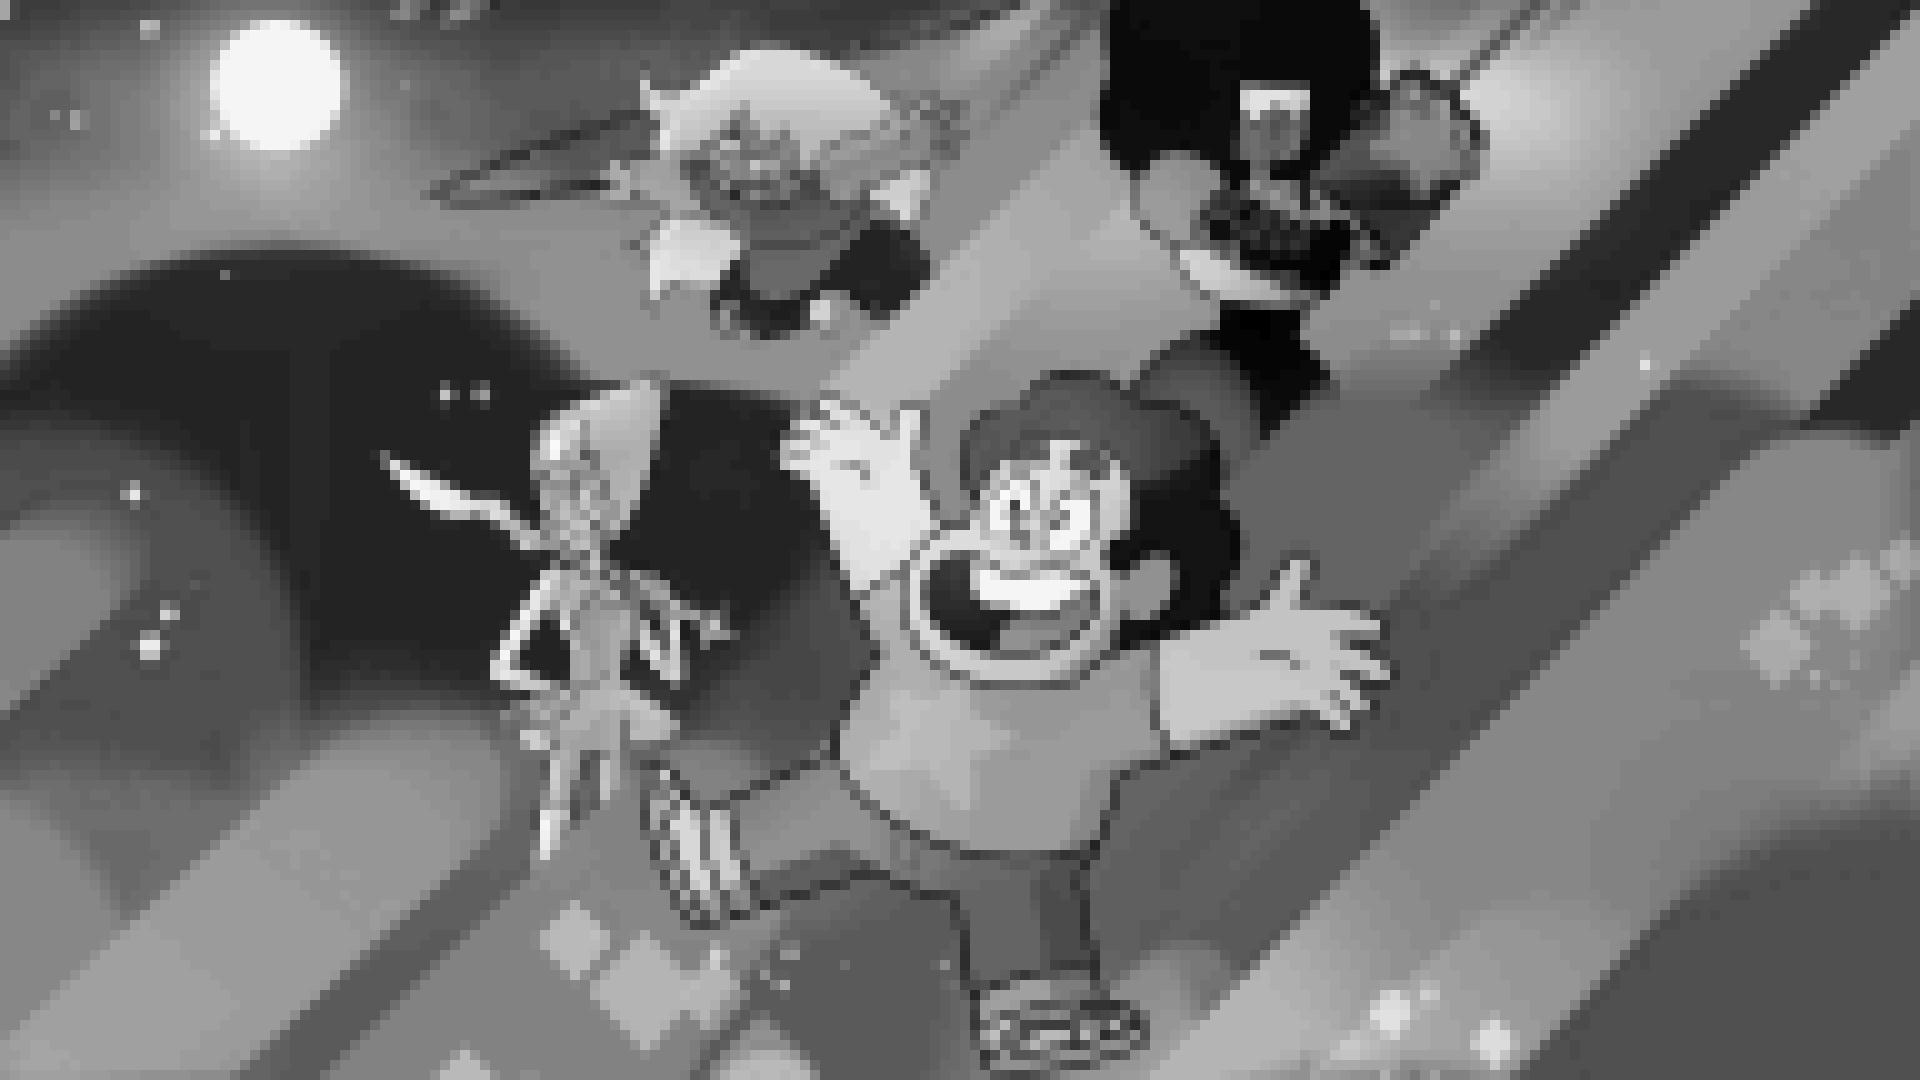
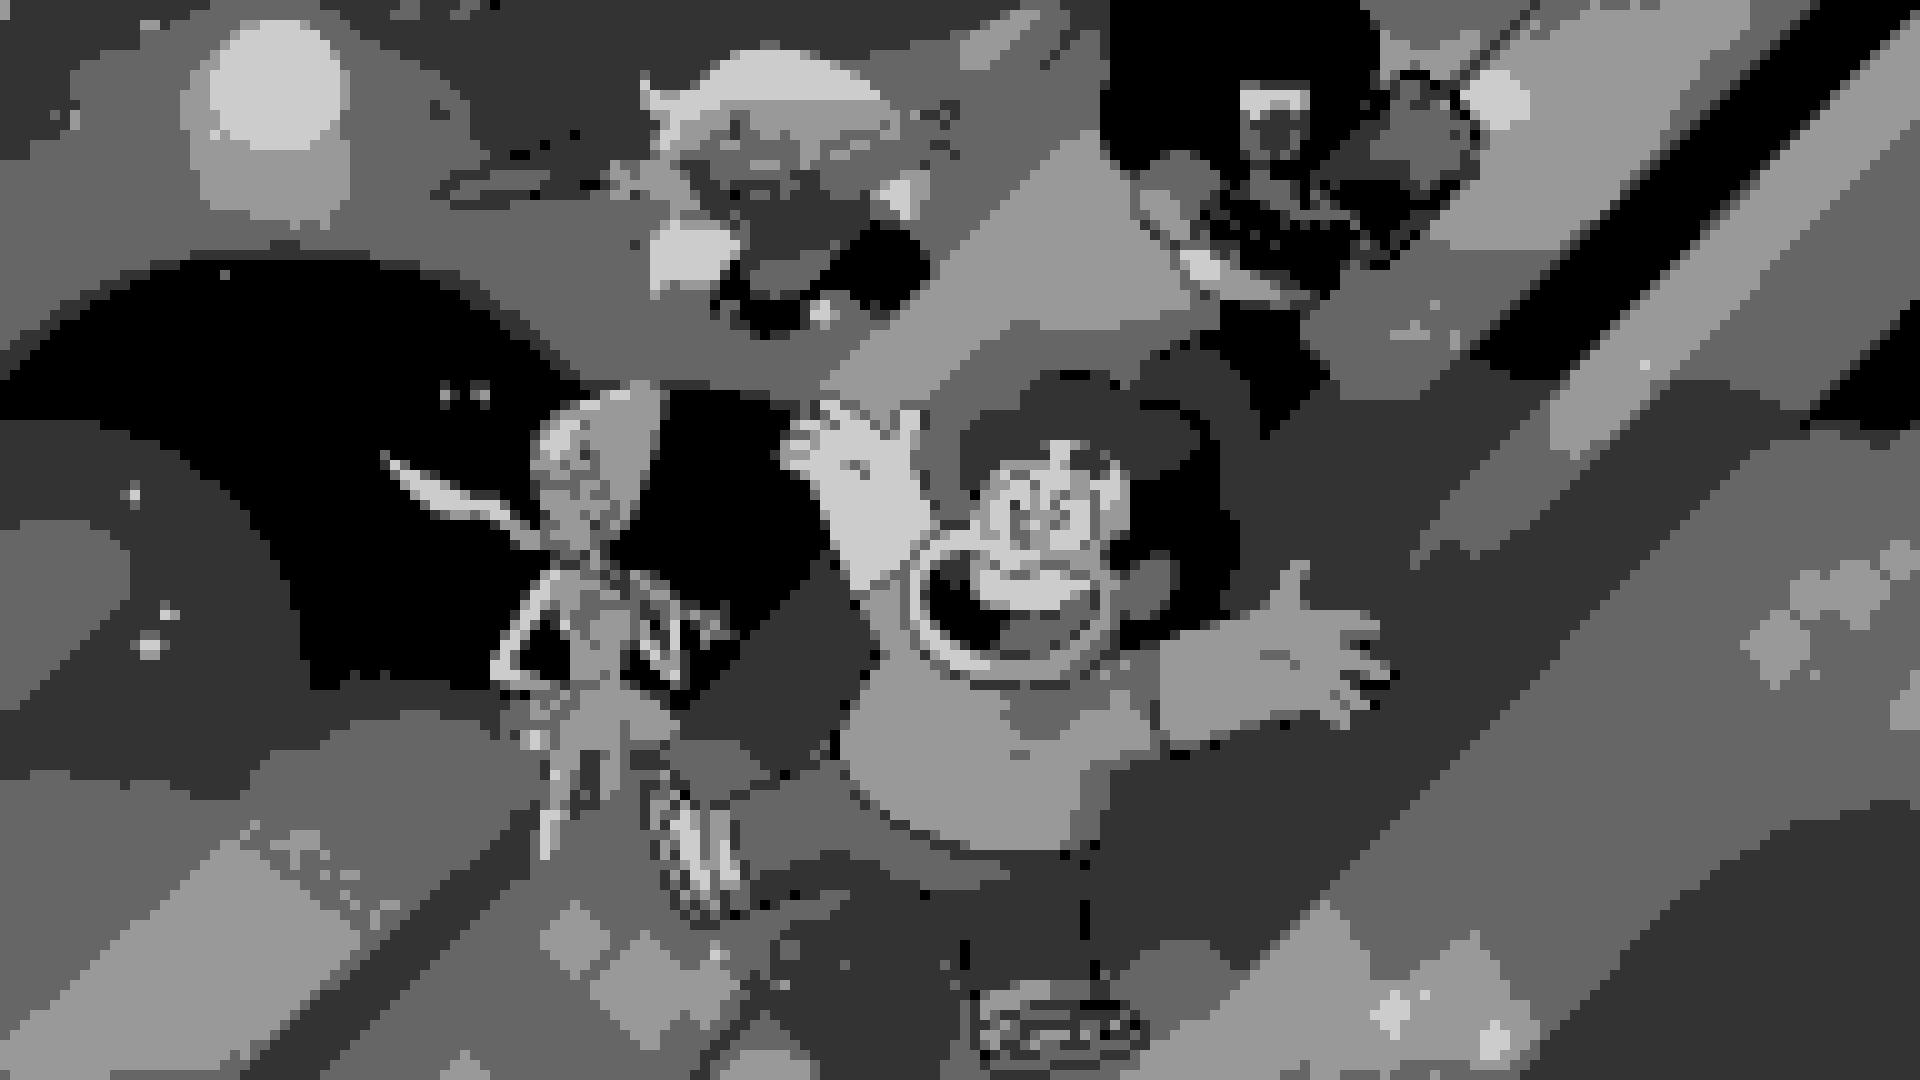
get tests

diff --git a/filter.py b/filter.py
@@ -3,7 +3,17 @@ from PIL import Image
 
 
 class GreyImage:
-    def __init__(self, pix_array, pix_size=10, gradation=5):
+    """ Класс, преобразующий картинку в черно-белый пиксель-арт
+            Тест значения градации изображения
+            >>> res = GreyImage(np.array(Image.open('picture.jpg')), 10, 100)
+            >>> a.grad
+            2
+            Тест размера блока
+            >>> a = GreyImage(np.array(Image.open('picture.jpg')), 75, 10)
+            >>> a.size
+            75
+    """
+    def __init__(self, pix_array, pix_size=10, gradation=50):
         self.image = np.array(pix_array)
         self.size = pix_size
         self.grad = 255 // gradation
@@ -11,12 +21,34 @@ class GreyImage:
         self.height = len(self.image[0])
 
     def get_grey_image(self):
+        """ Преобразование картинки в черно-белую, пиксельную
+                Тест размера полученной картинки
+                >>> GreyImage(np.array(Image.open('picture.jpg')), 10, 50).get_grey_image().size
+                (1920, 1080)
+                >>> GreyImage(np.array(Image.open('picture_2.png')), 10, 50).get_grey_image().size
+                (750, 750)
+                :return: черно-белый картинка
+                """
         for x in range(0, self.width, self.size):
             for y in range(0, self.height, self.size):
                     self.image[x:x + self.size, y:y + self.size] = self.get_middle_color(x, y)
         return Image.fromarray(self.image)
 
     def get_middle_color(self, x, y):
+        """
+        Закрашивает блок пикселей одной градацией серого цвета и вычисляет среднее значение яркости блока
+                :param get_middle_color: Поиск нужного цвета
+                :param x: координата пикселя по оси x
+                :param y: координата пикселя по оси y
+                :return: Среднее значение яркости
+
+               Тест исходной картинки
+               >>> GreyImage(np.array(Image.open('picture.jpg')), 10, 50).get_middle_color(1,1)
+               153
+               Тест черно-белой картинки
+               >>> GreyImage(np.array(Image.open('new_pic.jpg')), 10, 50).get_middle_color(1,1)
+               153
+        """
         return int(self.image[x:x + self.size, y:y + self.size].sum() / 3 // self.size ** 2 // self.grad * self.grad)
 
 

diff --git a/filter_with_filename.py b/filter_with_filename.py
@@ -3,7 +3,7 @@ from PIL import Image
 
 
 class GreyImage:
-    def __init__(self, pix_array, pix_size=10, gradation=5):
+    def __init__(self, pix_array, pix_size=10, gradation=50):
         self.image = np.array(pix_array)
         self.size = pix_size
         self.grad = 255 // gradation
@@ -20,6 +20,7 @@ class GreyImage:
         return int(self.image[x:x + self.size, y:y + self.size].sum() / 3 // self.size ** 2 // self.grad * self.grad)
       
      
-orig_img = Image.open("picture.jpg")    
+orig_img = Image.open("picture.jpg")
 arr = GreyImage(orig_img).get_grey_image()
-arr.save('new_pic_with_filename')
+print(GreyImage(orig_img).get_middle_color(1, 1))
+arr.save('new_pic_with_filename.jpg')
